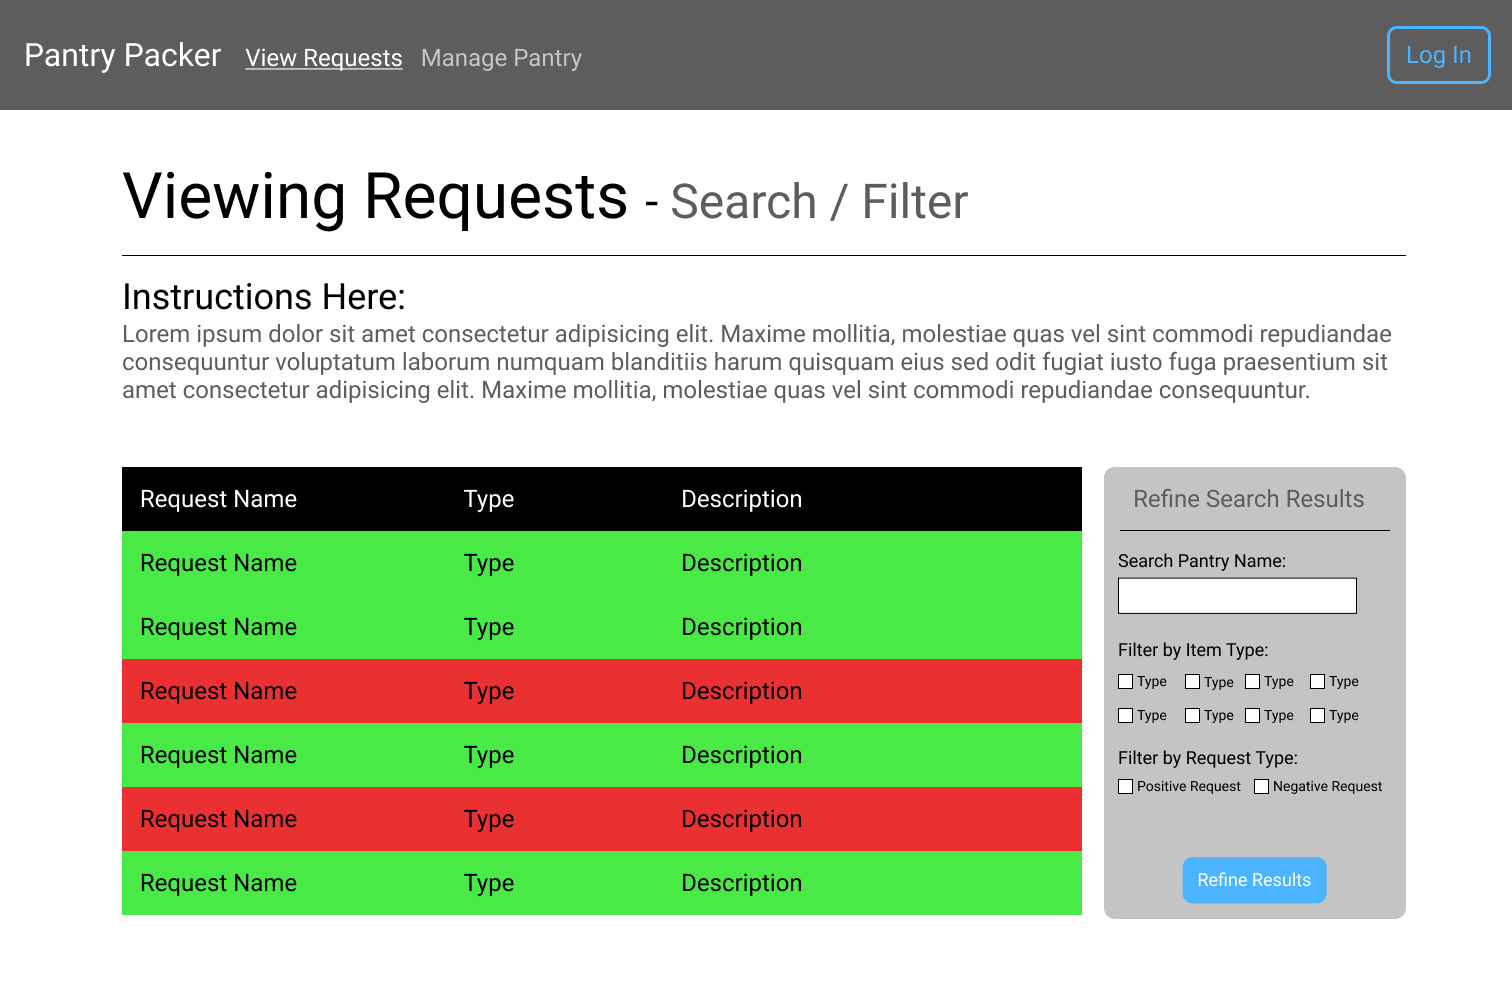
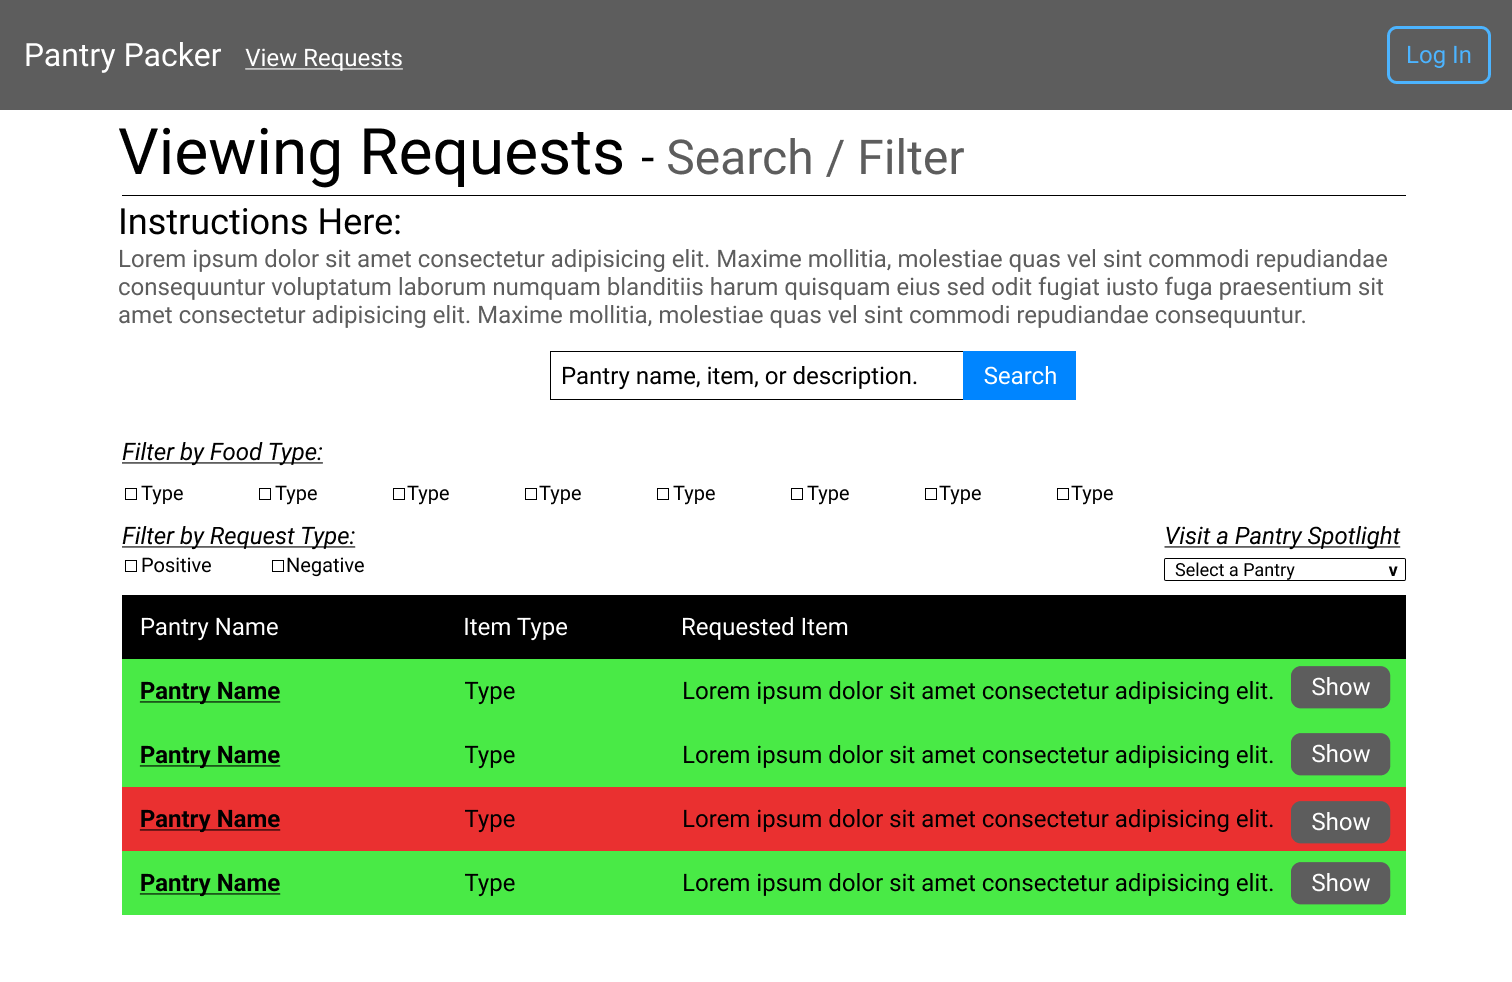
Adds modified UML diagrams from the final exam.
UML documents that required modification have been updated in their
respective pages. New documents, such as the SSD and UI mockups for the
new use case have been added into these pages and directories.

diff --git a/docs/pages/sequence_diagrams.md b/docs/pages/sequence_diagrams.md
@@ -15,3 +15,6 @@ The system sequence diagrams show the overall 'flow' of interaction between clas
 
 ## Searching for a Request with Filters
 ![SSD for Searching for a Request with Filters](../uml/System-Sequence-Diagrams/SSD-Search-Filter-Request.png)
+
+## Viewing a Pantry Spotlight
+![Viewing a Pantry Spotlight](../uml/System-Sequence-Diagrams/SSD-View-Pantry-Spotlight.png)

diff --git a/docs/pages/ui_mockups.md b/docs/pages/ui_mockups.md
@@ -18,3 +18,6 @@ The UI mockups are meant to help drive development of an intuitive and user-frie
 
 ## Searching for a Request
 ![UI Mockup for Searching for a Request](../uml/UI-Mockups/UI-Search-Filter-Request.png)
+
+## Viewing a Pantry Spotlight
+![UI Mockup for Viewing a Pantry Spotlight](../uml/UI-Mockups/UI-Pantry-Spotlight.png)
